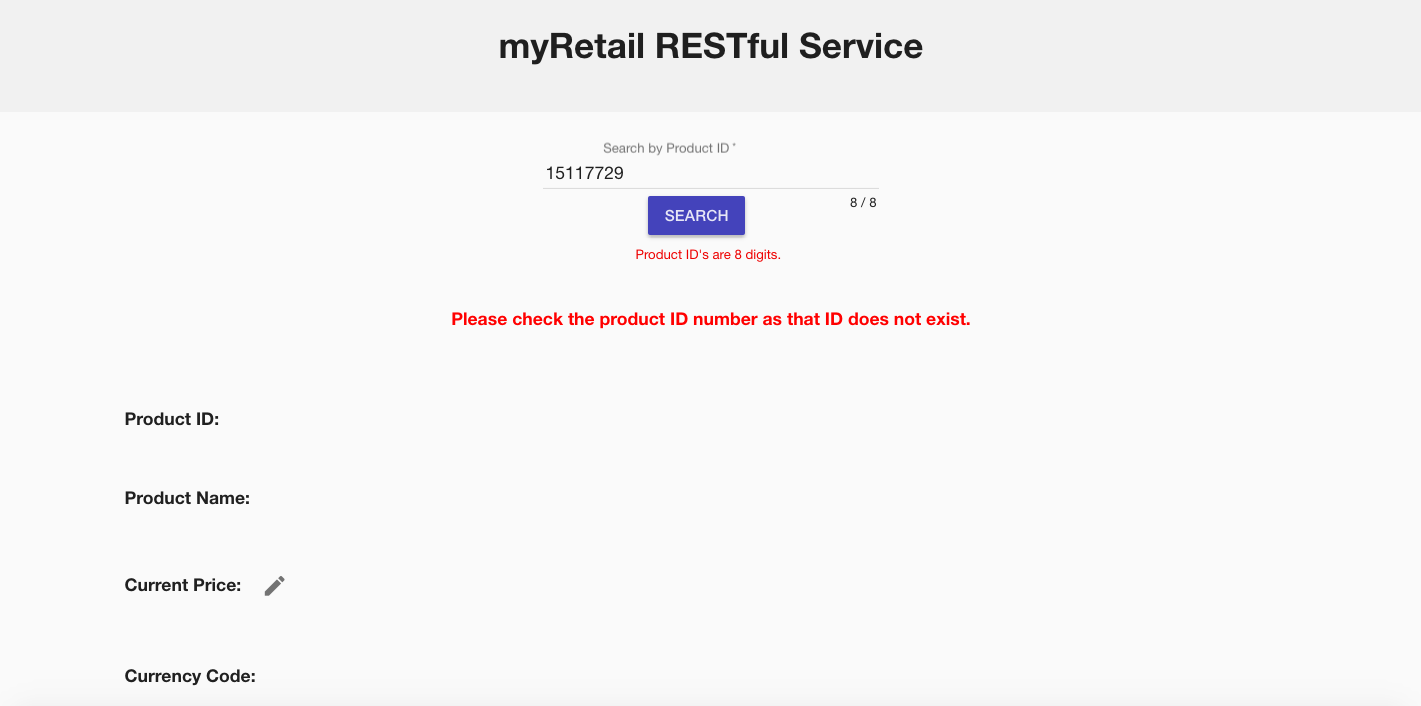
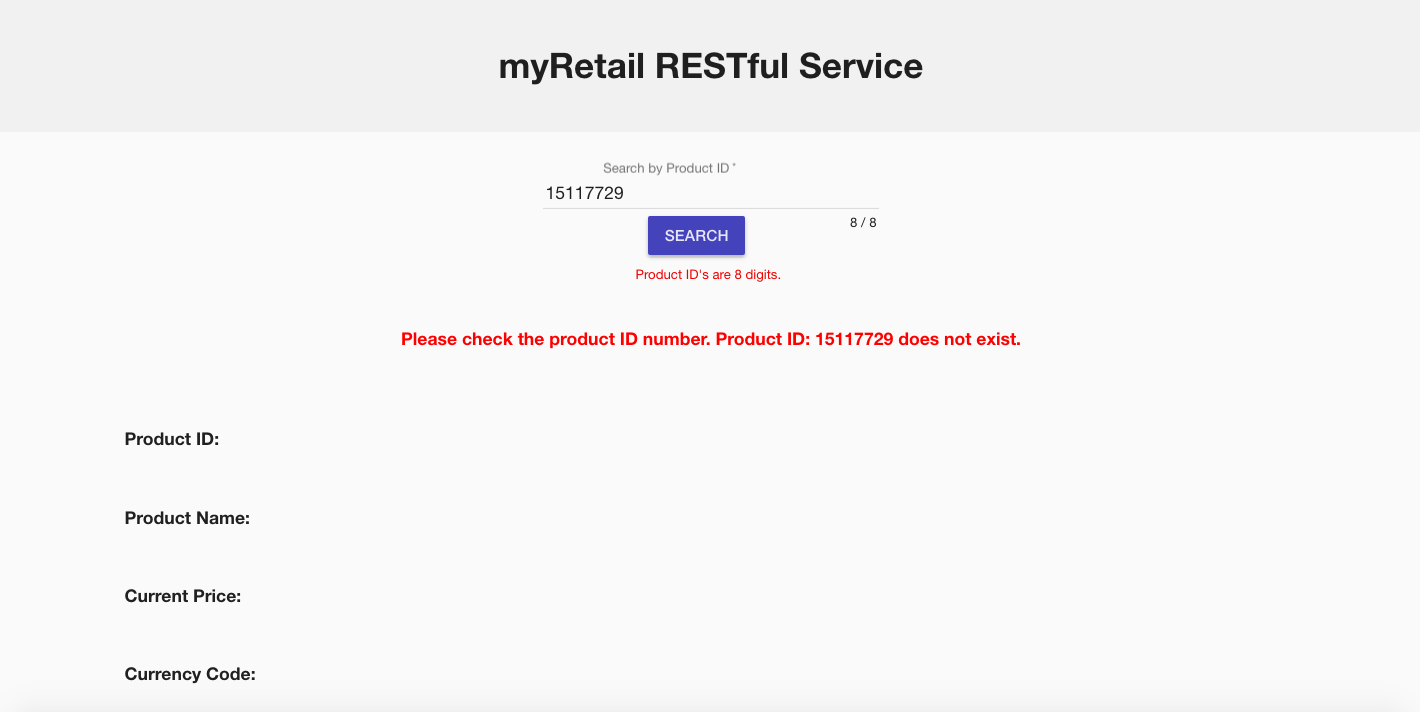
updated screen shot

diff --git a/server/public/scripts/controllers/myRetail.controller.js b/server/public/scripts/controllers/myRetail.controller.js
@@ -6,7 +6,7 @@ myApp.controller('MyRetailController', function ($http, $scope, MyRetailService)
     vm.editing = false;
     vm.message = ''
 
-    
+
     //get Product of id searched
     vm.getProduct = function (id) {
         MyRetailService.getProduct(id).then(function (response) {
@@ -18,7 +18,7 @@ myApp.controller('MyRetailController', function ($http, $scope, MyRetailService)
                 vm.idNumber = ''
             }
             else {
-                vm.message = 'Please check the product ID number as product ID: ' 
+                vm.message = 'Please check the product ID number. Product ID: ' 
                 + vm.idNumber + ' does not exist.'
             }
         }).catch(function () {
